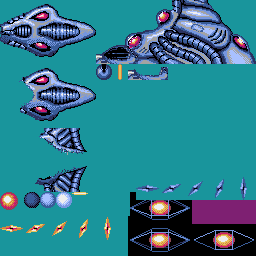
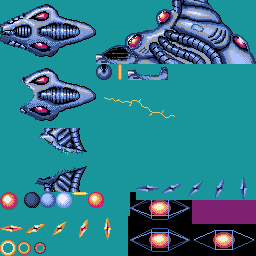
ラスボスの調整とか

diff --git a/source/bossLast.py b/source/bossLast.py
@@ -37,6 +37,8 @@ class BossLast1(enemy.EnemyBase):
 		[[0,130],[9,0],[9,199],[0,68]],
 	]
 	launcherTable = [[38,24],[66,128+15],[66,49],[38,128+40]]
+	#launcherDrTable = [32 -5, 32 +2, 32 +2, 32 +5]
+	fallShot2RadTable = [0.6, 0.75, 0.65, 0.7, 0.63, 0.8, 0.72]
 	table8 = [5,3,6,2,1,7,4,0]
 	arrowDrTable = [1.0, 0.8, 1.2, 0.95, 1.1, 0.7, 1.05, 0.9, 1.3, 0.85, 1.15]
 	initHp = boss.BOSS_LAST_1 + boss.BOSS_LAST_2 + boss.BOSS_LAST_3	# 5000		# 2000
@@ -68,7 +70,7 @@ class BossLast1(enemy.EnemyBase):
 		self.beam2 = None
 		self.roundBeam = None
 		# ボスの攻撃形態
-		self.mode = 0
+		self.mode = 1
 		self.coreX = self.x +32+16+32
 		self.coreY = self.y +64+16+16
 		# コアの回転角度
@@ -78,6 +80,7 @@ class BossLast1(enemy.EnemyBase):
 		self.arrowRad = math.pi
 		self.omega = 0.0
 		self.random = gcommon.ClassicRand()
+		self.fallShot2RadIndex = 0
 		pyxel.image(2).load(0,0,"assets/graslay_last-3.png")
 		# 移動ビーム砲台発射口
 		ObjMgr.addObj(BossLast1Launcher(self.x, self.y, -1))
@@ -218,6 +221,7 @@ class BossLast1(enemy.EnemyBase):
 		elif self.state == 3:
 			if self.cnt > 30:
 				self.nextState()
+				self.fallShot2RadIndex = 0
 		elif self.state == 4:
 			# # 矢型の弾
 			# if self.cnt & 3 == 0:
@@ -225,16 +229,31 @@ class BossLast1(enemy.EnemyBase):
 			# 	ObjMgr.addObj(BossLastArrowShot(self.x +32+16+32, self.y +64+16+16, self.arrowRad))
 			# ひし形弾
 			if GameSession.difficulty == gcommon.DIFFICULTY_EASY:
-				count = 12
+				count = 51
 			elif GameSession.difficulty == gcommon.DIFFICULTY_NORMAL:
-				count = 8
+				count = 37
 			else:
-				count = 5
+				count = 23
 			if self.cnt % count == 0:
-				ObjMgr.addObj(BossLastFallShotGroup(self.x +32+16+32, self.y +64+16+16,
-					math.pi + math.pi * (self.random.rand() % 100 -50)/120, 
-					(self.random.rand() % 120 -60)/800, 5))
-			if self.cnt > 240:
+				n = self.cnt % 4
+				pos = __class__.launcherTable[n]
+				if n in (0, 2):
+					rad = math.pi * __class__.fallShot2RadTable[self.fallShot2RadIndex]
+				else:
+					rad = -math.pi * __class__.fallShot2RadTable[self.fallShot2RadIndex]
+				ObjMgr.addObj(BossLastBoundShot(self.x +pos[0], self.y +pos[1], rad))
+				#ObjMgr.addObj(BossLastBoundShot(self.x +pos[0], self.y +pos[1], math.pi))
+				self.fallShot2RadIndex += 1
+				if self.fallShot2RadIndex >= len(__class__.fallShot2RadTable):
+					self.fallShot2RadIndex = 0
+			# if self.cnt % count == 0:
+			# 	speed = 2
+			# 	n = int(self.cnt /count) % 4
+			# 	pos = __class__.launcherTable[n]
+			# 	#enemy.enemy_shot_dr_multi(self.x +pos[0], self.y +pos[1], 2, 0, __class__.launcherDrTable[n], 3, 2)
+			# 	enemy.enemy_shot_multi(self.x +pos[0], self.y +pos[1], speed, 0, 5, 3)
+
+			if self.cnt > 300:
 				self.nextState()
 		elif self.state == 5:
 			if self.cnt == 1:
@@ -571,7 +590,7 @@ class BossLastBattery1(enemy.EnemyBase):
 				self.remove()
 				return
 			if self.cnt % 30 == (15 + self.flag * 5):
-				ObjMgr.addObj(BossLastBattery1Beam(self.x, self.y, 4 * self.flag))
+				ObjMgr.addObj(BossLastBattery1Beam(self.x, self.y, 2 * self.flag))
 
 	def draw(self):
 		pyxel.blt(self.x, self.y, 2, 96, 64, 16, -16 *self.flag, 3)
@@ -1216,7 +1235,7 @@ class BossLastRoundBeam(enemy.EnemyBase):
 
 	# 自機と敵との当たり判定
 	def checkMyShipCollision(self):
-		myPos : [float] = gcommon.getCenterPos(ObjMgr.myShip)
+		myPos = gcommon.getCenterPos(ObjMgr.myShip)
 		for i in [2,3, 8, 9]:
 			for pos in self.listArray[i]:
 				d = gcommon.get_distance_pos2(myPos, pos)
@@ -1241,3 +1260,58 @@ class BossLastBaseExplosion(enemy.EnemyBase):
 			if self.cnt < 120:
 				# 120超えるとサウンドなし
 				BGM.sound(gcommon.SOUND_MID_EXP)
+
+class BossLastBoundShot(enemy.EnemyBase):
+	def __init__(self, x, y, rad):
+		super(__class__, self).__init__()
+		self.x = x
+		self.y = y
+		self.rad = rad
+		self.left = -4.5
+		self.top = -4.5
+		self.right = 4.5
+		self.bottom = 4.5
+		self.layer = gcommon.C_LAYER_E_SHOT
+		self.ground = False
+		self.hitCheck = True
+		self.shotHitCheck = False
+		self.enemyShotCollision = False
+		self.speed = 2.0
+		self.hp = 2000
+		self.dx = self.speed * math.cos(self.rad)
+		self.dy = self.speed * math.sin(self.rad)
+		self.cellCount = 3
+		self.cellDelay = 4
+		self.cellList = []
+		#if self.rad < 0:
+		#	self.ddy = 0.1
+		#else:
+		#	self.ddy = -0.1
+
+	def update(self):
+		self.x += self.dx
+		self.y += self.dy
+		#self.dy += self.ddy
+		if self.x < -8:
+			self.remove()
+			return
+		if self.y < gcommon.SCREEN_MIN_Y +12 or self.y > gcommon.SCREEN_MAX_Y -12:
+			self.dy = -self.dy
+		self.cellList.insert(0, [self.x, self.y])
+		if len(self.cellList) > (self.cellCount *  self.cellDelay +1):
+			self.cellList.pop()
+
+	def draw(self):
+		imageIndex = 0
+		cellIndex = 0
+		posList = []
+		while imageIndex <= 2 and cellIndex < len(self.cellList):
+			posList.insert(0, self.cellList[cellIndex])
+			cellIndex += self.cellDelay
+			imageIndex += 1
+
+		imageIndex = 2
+		for pos in posList:
+			pyxel.blt(pos[0] -7.5, pos[1] -7.5, 2, imageIndex *16, 240, 16, 16, 3)
+			imageIndex -= 1
+

diff --git a/source/enemy.py b/source/enemy.py
@@ -46,7 +46,7 @@ def enemy_shot_rad(x, y, speed, shotType, rad):
 def enemy_shot_dr_multi(x, y, speed, shotType, dr, count, angleDr):
 	if count & 1 == 1:
 		ObjMgr.objs.append(EnemyShot.createSpecifiedDirection(x, y, speed, shotType, dr))
-		for i in range(count>>1):
+		for i in range(1,(count>>1)+1):
 			ObjMgr.objs.append(EnemyShot.createSpecifiedDirection(x, y, speed, shotType, dr + angleDr * i))
 			ObjMgr.objs.append(EnemyShot.createSpecifiedDirection(x, y, speed, shotType, dr - angleDr * i))
 	else:
@@ -2510,12 +2510,8 @@ class Battery3(EnemyBase):
 		self.ground = True
 		self.left = 2
 		self.right = 13
-		if self.direction == 1:
-			self.top = 5
-			self.bottom = 15
-		else:
-			self.top = 0
-			self.bottom = 10
+		self.top = 5
+		self.bottom = 15
 		self.hp = 10
 		self.score = 300
 
@@ -2543,10 +2539,10 @@ class Lift1(EnemyBase):
 		self.x = x
 		self.y = y
 		self.direction = direction	# 1:下  -1:上
-		self.left = 4
-		self.top = 0
-		self.right = 63
-		self.bottom = 15
+		self.left = 2
+		self.top = 1
+		self.right = 61
+		self.bottom = 8
 		self.hp = 999999
 		self.shotEffect = False
 		self.layer = gcommon.C_LAYER_GRD
@@ -2598,10 +2594,12 @@ class LiftAppear1(EnemyBase):
 	def createLift(self):
 		if self.direction == 1:
 			# 下
+			gcommon.debugPrint("Lower")
 			ObjMgr.addObj(Lift1(self.x, -16, self.direction))
 			ObjMgr.addObj(Battery3(self.x +16, -32, self.direction))
 		else:
 			# 上
+			gcommon.debugPrint("Upper")
 			ObjMgr.addObj(Lift1(self.x, gcommon.SCREEN_MAX_Y+1+16, self.direction))
 			ObjMgr.addObj(Battery3(self.x +16, gcommon.SCREEN_MAX_Y+1, self.direction))
 

diff --git a/source/gcommon.py b/source/gcommon.py
@@ -239,7 +239,7 @@ POWER_RATE_HARD = 1.0
 
 ENEMY_SHOT_RATE_EASY = 0.65
 ENEMY_SHOT_RATE_NORMAL = 0.75
-ENEMY_SHOT_RATE_HARD = 1.0
+ENEMY_SHOT_RATE_HARD = 0.90
 
 DIFFICULTY_RATE_EASY = 0.75
 DIFFICULTY_RATE_NORMAL = 1.0
@@ -786,28 +786,28 @@ def isShotMapPos(x, y):
 	else:
 		return True
 
-def isMapFreePos(x, y):
+def isMapFreePos(x, y) -> bool:
 	no = getMapData(x, y)
 	if no >= 0:
 		return isMapFree(no)
 	else:
 		return True
 
-def isMapZeroPos(x, y):
+def isMapZeroPos(x, y) -> bool:
 	no = getMapData(x, y)
 	if no >= 0:
 		return isMapZero(no)
 	else:
 		return True
 
-def isMapFreeByMapPos(mx, my):
+def isMapFreeByMapPos(mx, my) -> bool:
 	no = getMapDataByMapPos(mx, my)
 	if no >= 0:
 		return isMapFree(no)
 	else:
 		return True
 
-def mapPosToScreenPos(mx, my):
+def mapPosToScreenPos(mx, my) -> list:
 	global map_x
 	global map_y
 	global mapHeight

diff --git a/source/customStartMenu.py b/source/customStartMenu.py
@@ -75,13 +75,13 @@ class CustomStartMenuScene:
 				if self.menuPos == MENU_WEAPON_OPTION and Settings.weaponType == gcommon.WeaponType.TYPE_A:
 					self.menuPos = MENU_WEAPON_TYPE
 				if self.menuPos < 0:
-					self.menuPos = 5
+					self.menuPos = 4
 			if gcommon.checkDownP():
 				BGM.sound(gcommon.SOUND_MENUMOVE)
 				self.menuPos += 1
 				if self.menuPos == MENU_WEAPON_OPTION and Settings.weaponType == gcommon.WeaponType.TYPE_A:
 					self.menuPos = MENU_GAME_START
-				if self.menuPos > 5:
+				if self.menuPos > 4:
 					self.menuPos = 0
 			
 			if self.mouseManager.visible:

diff --git a/source/enemyMine.py b/source/enemyMine.py
@@ -85,14 +85,10 @@ class Mine1(EnemyBase):
             dr = 0
             count = 4
             angle = 16
-        elif GameSession.difficulty == gcommon.DIFFICULTY_NORMAL:
+        else:
             dr = 4
             count = 8
             angle = 8
-        else:
-            dr = 2
-            count = 16
-            angle = 4
-        enemy.enemy_shot_dr_multi(self.x + 8, self.y + 3, 3, 0, dr, count, angle)
+        enemy.enemy_shot_dr_multi(self.x + 8, self.y + 3, 2, 0, dr, count, angle)
         super(Mine1, self).broken()
 

diff --git a/source/enemyCreature.py b/source/enemyCreature.py
@@ -52,14 +52,9 @@ class Worm3(EnemyBase):
             dr = 4
             count = 8
             angle = 8
-            if GameSession.difficulty == gcommon.DIFFICULTY_NORMAL:
-                dr = 32
-                count = 2
-                angle = 2
-            else:
-                dr = 32
-                count = 4
-                angle = 2
+            dr = 32
+            count = 2
+            angle = 2
             enemy.enemy_shot_dr_multi(self.x, self.y + 9, 2, 0, dr, count, angle)
 
     def draw(self):

diff --git a/source/enemyFighter.py b/source/enemyFighter.py
@@ -37,7 +37,7 @@ class Fighter4(EnemyBase):
             self.remove()
             return
         if self.cnt == self.shotFirst:
-            enemy.enemy_shot(self.x +10, self.y+10, 3, 0)
+            enemy.enemy_shot(self.x +10, self.y+10, 2, 0)
 
     def draw(self):
         n = 0
@@ -66,7 +66,7 @@ class Fighter4(EnemyBase):
         else:
             pyxel.blt(self.x, self.y, 2, 48 + n*16, 0, width, 16, 0)
 
-
+# 蝙蝠みたいなやつ
 class Fighter4Group(EnemyBase):
     # 下から上へ
     moveTable0 = [

diff --git a/source/mapDraw.py b/source/mapDraw.py
@@ -587,10 +587,8 @@ class MapDrawFactory:
 					if n in (390, 391):
 						# 砲台
 						gcommon.setMapDataByMapPos(mx, my, 0)
-						obj = enemy.Battery1([0,0,mx, my, 0])
+						obj = enemy.Battery1([0,0,mx, my, 0 if n == 390 else 1])
 						obj.first = 20
-						if n == 391:
-							obj.mirror = 1
 						ObjMgr.addObj(obj)
 					elif n in (394, 395):
 						# サーキュレーター

diff --git a/source/enemyBattery.py b/source/enemyBattery.py
@@ -260,6 +260,7 @@ class PlantBattery1(EnemyBase):
 			self.top = 23 -16
 			self.bottom = 23 -3
 		self.layer = gcommon.C_LAYER_GRD
+		self.exptype = gcommon.C_EXPTYPE_GRD_M
 		self.hp = 100
 		self.shotInterval = int(120 / GameSession.enemy_shot_rate)
 		self.hitCheck = True
